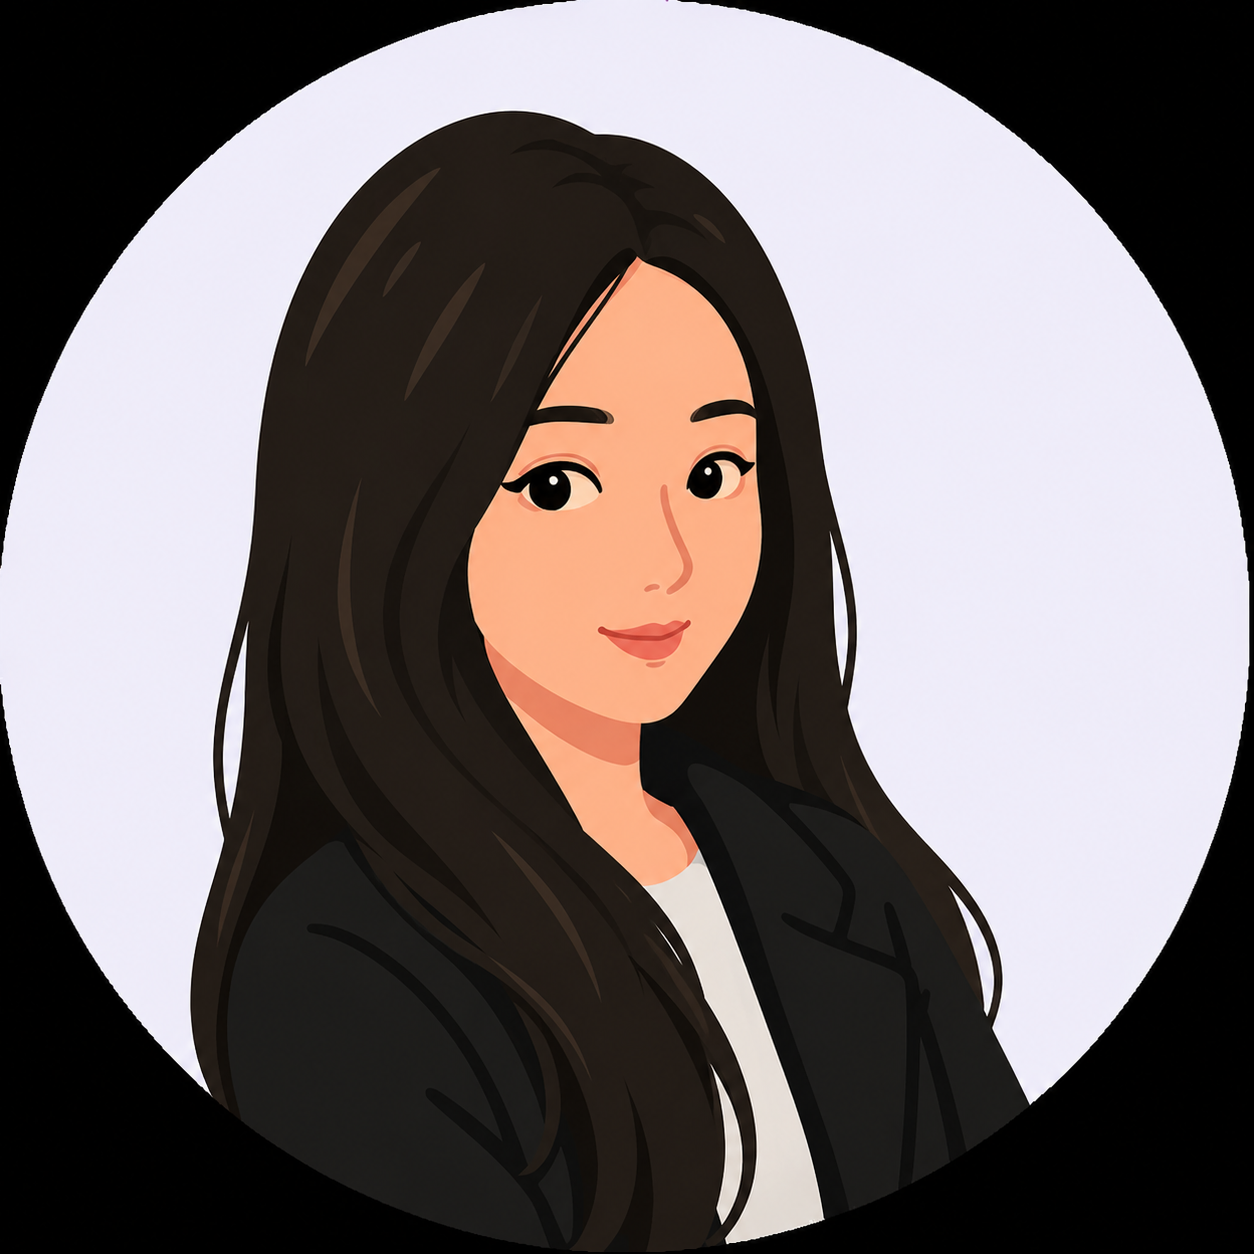
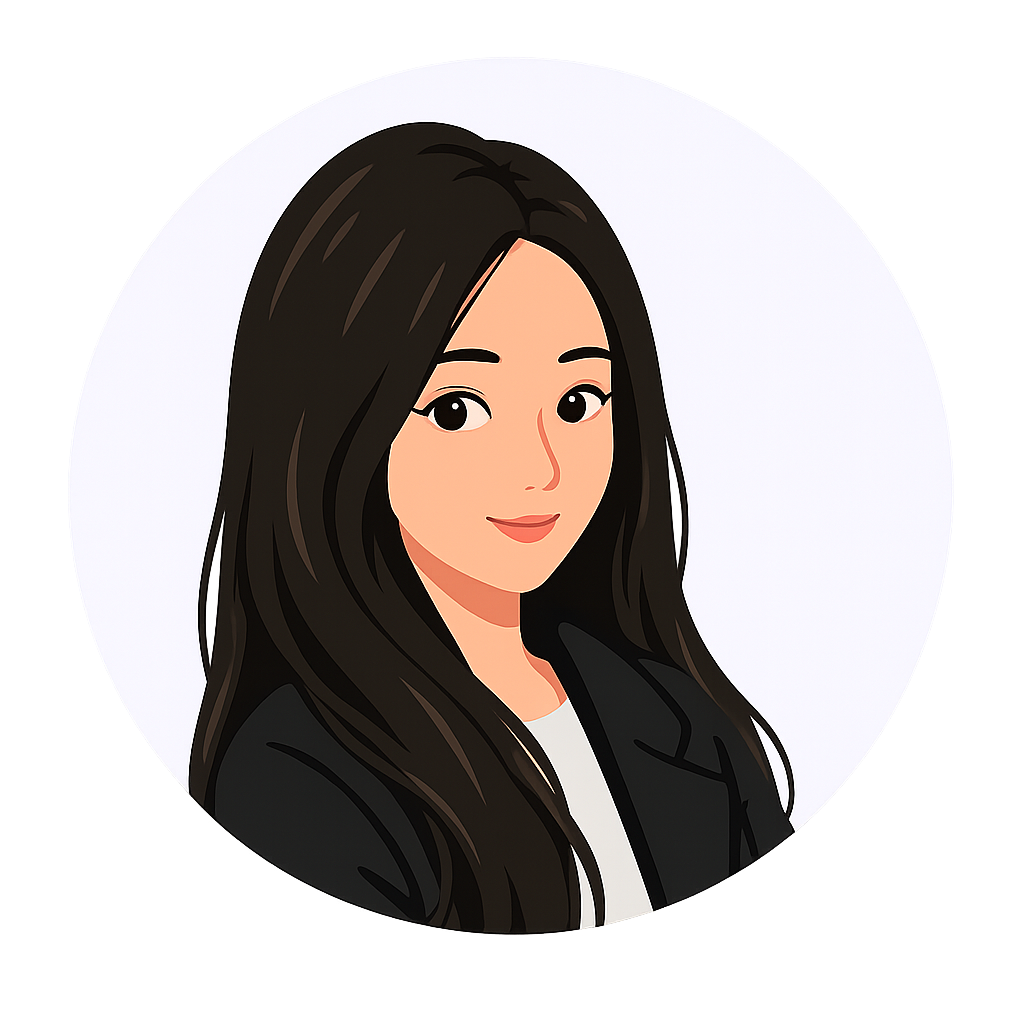
edit margin

diff --git a/styles.css b/styles.css
@@ -168,7 +168,6 @@ body::before {
     font-weight: 700;
     cursor: pointer;
     backdrop-filter: blur(12px);
-    box-shadow: 0 14px 30px rgba(15, 23, 42, 0.12);
     transition: all 0.3s ease;
     display: inline-flex;
     align-items: center;
@@ -179,7 +178,6 @@ body::before {
     background: rgba(255, 127, 156, 0.35);
     color: #ff7f9c;
     transform: translateY(-2px);
-    box-shadow: 0 22px 50px rgba(255, 127, 156, 0.25);
 }
 
 .hero {
@@ -201,24 +199,20 @@ body::before {
 .profile-card {
     position: relative;
     display: grid;
-    grid-template-columns: minmax(140px, 200px) 1fr;
+    grid-template-columns: minmax(140px, 250px) 1fr;
     gap: 28px;
     align-items: center;
     padding: 40px;
     border-radius: 34px;
-    background: rgba(255, 255, 255, 0.84);
-    backdrop-filter: blur(20px);
-    border: 1px solid rgba(255, 255, 255, 0.7);
     box-shadow: 0 32px 90px rgba(15, 23, 42, 0.14);
 }
 
 .profile-pic {
     width: 100%;
-    max-width: 220px;
+    max-width: 280px;
     aspect-ratio: 1;
     object-fit: cover;
-    border-radius: 34px;
-    border: 4px solid rgba(255, 255, 255, 0.88);
+    border-radius: 50%;
     box-shadow: 0 25px 60px rgba(15, 23, 42, 0.18);
     animation: float 6s ease-in-out infinite;
 }
@@ -533,6 +527,10 @@ body.nav-open .main-content {
         grid-template-columns: 1fr;
     }
 
+    .lang-toggle {
+        margin-left: -20px;
+    }
+
     body.nav-open .nav-overlay {
         display: block;
     }
@@ -546,6 +544,10 @@ body.nav-open .main-content {
     .profile-card {
         grid-template-columns: 1fr;
         text-align: center;
+    }
+
+    .profile-pic {
+        margin: 0 auto;
     }
 
     .hero-copy h1 {
